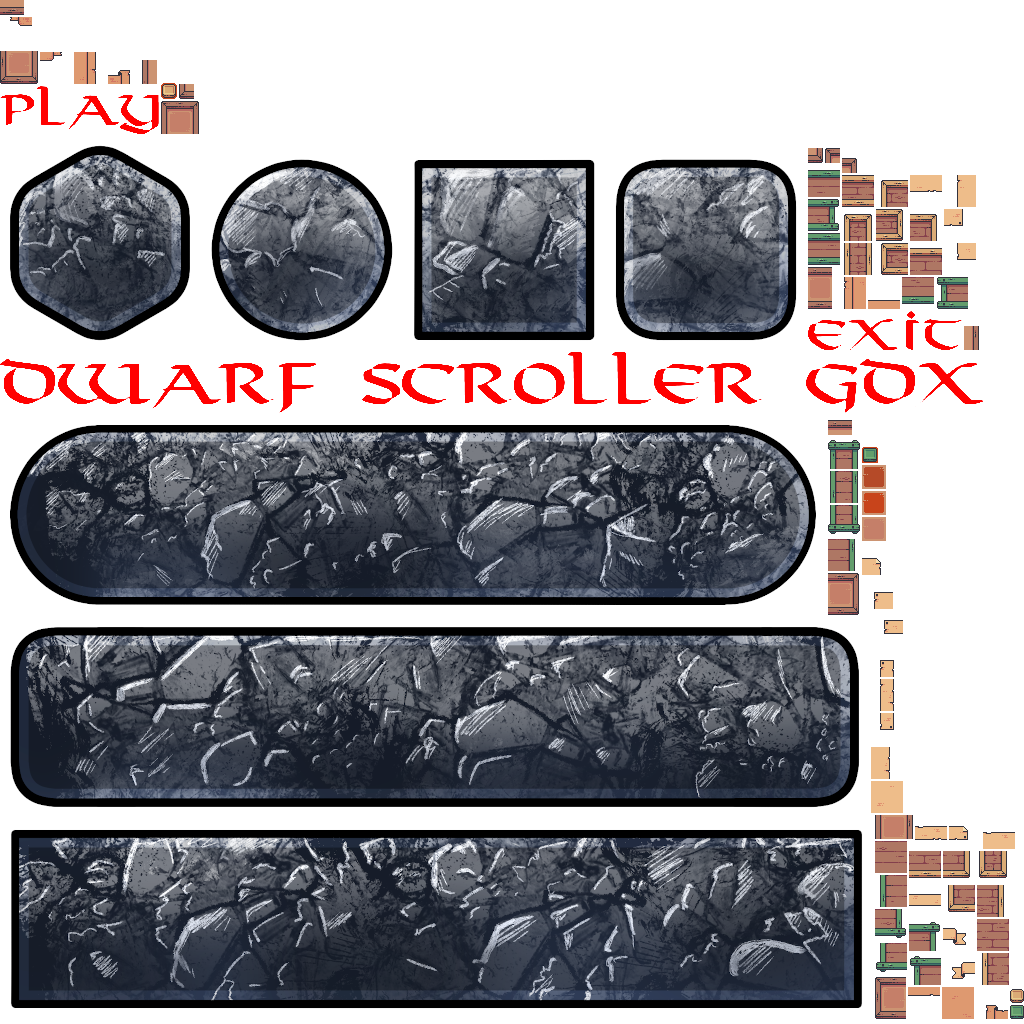
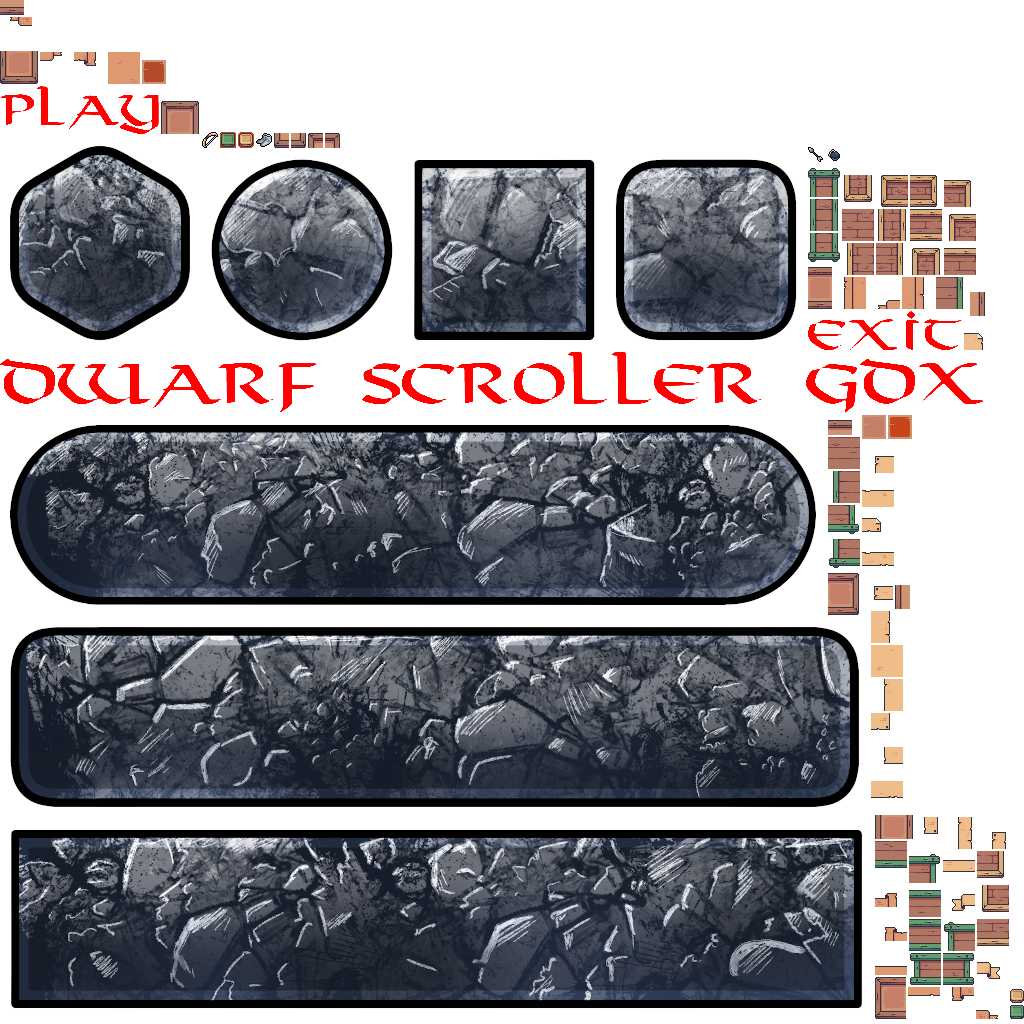
ammo menu inside the pause menu

diff --git a/core/src/net/jfabricationgames/gdx/screens/menu/PauseMenuScreen.java b/core/src/net/jfabricationgames/gdx/screens/menu/PauseMenuScreen.java
@@ -10,11 +10,13 @@ import net.jfabricationgames.gdx.DwarfScrollerGame;
 import net.jfabricationgames.gdx.character.PlayableCharacter;
 import net.jfabricationgames.gdx.character.SpecialAction;
 import net.jfabricationgames.gdx.debug.DebugGridRenderer;
+import net.jfabricationgames.gdx.item.ItemAmmoType;
 import net.jfabricationgames.gdx.screens.game.GameScreen;
+import net.jfabricationgames.gdx.screens.menu.components.AmmoSubMenu;
 import net.jfabricationgames.gdx.screens.menu.components.FocusButton;
 import net.jfabricationgames.gdx.screens.menu.components.FocusButton.FocusButtonBuilder;
 import net.jfabricationgames.gdx.screens.menu.components.GameControlsDialog;
-import net.jfabricationgames.gdx.screens.menu.components.ItemMenu;
+import net.jfabricationgames.gdx.screens.menu.components.ItemSubMenu;
 import net.jfabricationgames.gdx.screens.menu.components.MenuBox;
 
 public class PauseMenuScreen extends InGameMenuScreen<PauseMenuScreen> {
@@ -31,7 +33,8 @@ public class PauseMenuScreen extends InGameMenuScreen<PauseMenuScreen> {
 	private static final String statePrefixButtons = "button_";
 	
 	private static final String pauseMenuStatesConfig = "config/menu/in_game_menu_states.json";
-	private static final Array<String> items = new Array<String>(new String[] {"jump", "bow"});
+	private static final Array<String> items = new Array<>(new String[] {"jump", "bow"});
+	private static final Array<ItemAmmoType> ammoItems = new Array<>(new ItemAmmoType[] {ItemAmmoType.ARROW, ItemAmmoType.BOMB});
 	
 	private PlayableCharacter character;
 	private DebugGridRenderer debugGridRenderer;
@@ -39,9 +42,11 @@ public class PauseMenuScreen extends InGameMenuScreen<PauseMenuScreen> {
 	private GameControlsDialog controlsDialog;
 	
 	private MenuBox background;
-	private MenuBox banner;
-	private ItemMenu itemMenu;
+	private MenuBox headerBanner;
+	private ItemSubMenu itemMenu;
 	private MenuBox itemMenuBanner;
+	private AmmoSubMenu ammoMenu;
+	private MenuBox ammoMenuBanner;
 	private FocusButton buttonBackToGame;
 	private FocusButton buttonControls;
 	private FocusButton buttonRestart;
@@ -69,9 +74,9 @@ public class PauseMenuScreen extends InGameMenuScreen<PauseMenuScreen> {
 	
 	private void createComponents() {
 		background = new MenuBox(12, 8, MenuBox.TextureType.GREEN_BOARD);
-		banner = new MenuBox(6, 2, MenuBox.TextureType.BIG_BANNER);
+		headerBanner = new MenuBox(6, 2, MenuBox.TextureType.BIG_BANNER);
 		
-		itemMenu = new ItemMenu(ITEM_MENU_ITEMS_PER_LINE, ITEM_MENU_LINES, items);
+		itemMenu = new ItemSubMenu(ITEM_MENU_ITEMS_PER_LINE, ITEM_MENU_LINES, items);
 		itemMenuBanner = new MenuBox(4, 2, MenuBox.TextureType.BIG_BANNER);
 		
 		int buttonWidth = 290;
@@ -96,6 +101,9 @@ public class PauseMenuScreen extends InGameMenuScreen<PauseMenuScreen> {
 		buttonControls.scaleBy(FocusButton.DEFAULT_BUTTON_SCALE);
 		buttonRestart.scaleBy(FocusButton.DEFAULT_BUTTON_SCALE);
 		buttonQuit.scaleBy(FocusButton.DEFAULT_BUTTON_SCALE);
+		
+		ammoMenu = new AmmoSubMenu(ammoItems, character);
+		ammoMenuBanner = new MenuBox(4, 2, MenuBox.TextureType.BIG_BANNER_LOW);
 		
 		controlsDialog = new GameControlsDialog();
 	}
@@ -160,6 +168,7 @@ public class PauseMenuScreen extends InGameMenuScreen<PauseMenuScreen> {
 		batch.begin();
 		drawBackground();
 		drawItemMenu();
+		drawAmmoMenu();
 		drawButtons();
 		drawBanners();
 		batch.end();
@@ -180,6 +189,10 @@ public class PauseMenuScreen extends InGameMenuScreen<PauseMenuScreen> {
 		itemMenu.draw(batch, 625, 150, 400, 200);
 	}
 	
+	private void drawAmmoMenu() {
+		ammoMenu.draw(batch, 825, 370, 200, 110);
+	}
+	
 	private void drawButtons() {
 		buttonBackToGame.draw(batch);
 		buttonControls.draw(batch);
@@ -188,8 +201,9 @@ public class PauseMenuScreen extends InGameMenuScreen<PauseMenuScreen> {
 	}
 	
 	private void drawBanners() {
-		banner.draw(batch, 125, 540, 650, 250);
+		headerBanner.draw(batch, 125, 540, 650, 250);
 		itemMenuBanner.draw(batch, 640, 260, 200, 150);
+		ammoMenuBanner.draw(batch, 800, 415, 250, 150);
 	}
 	
 	private void drawControlsDialog() {
@@ -197,6 +211,8 @@ public class PauseMenuScreen extends InGameMenuScreen<PauseMenuScreen> {
 	}
 	
 	private void drawTexts() {
+		ammoMenu.drawAmmoTexts();
+		
 		screenTextWriter.setColor(Color.BLACK);
 		
 		screenTextWriter.setScale(1.5f);
@@ -204,6 +220,8 @@ public class PauseMenuScreen extends InGameMenuScreen<PauseMenuScreen> {
 		
 		screenTextWriter.setScale(0.8f);
 		screenTextWriter.drawText("Items", 690, 345);
+		
+		screenTextWriter.drawText("Ammo", 860, 500);
 		
 		screenTextWriter.setScale(1.15f);
 		int buttonTextX = 160;

diff --git a/core/src/net/jfabricationgames/gdx/screens/menu/components/AmmoSubMenu.java b/core/src/net/jfabricationgames/gdx/screens/menu/components/AmmoSubMenu.java
@@ -1,0 +1,101 @@
+package net.jfabricationgames.gdx.screens.menu.components;
+
+import com.badlogic.gdx.graphics.Color;
+import com.badlogic.gdx.graphics.g2d.SpriteBatch;
+import com.badlogic.gdx.graphics.g2d.TextureRegion;
+import com.badlogic.gdx.utils.Align;
+import com.badlogic.gdx.utils.Array;
+import com.badlogic.gdx.utils.ArrayMap;
+
+import net.jfabricationgames.gdx.character.PlayableCharacter;
+import net.jfabricationgames.gdx.item.ItemAmmoType;
+import net.jfabricationgames.gdx.screens.menu.InGameMenuScreen;
+import net.jfabricationgames.gdx.text.ScreenTextWriter;
+import net.jfabricationgames.gdx.texture.TextureLoader;
+
+public class AmmoSubMenu extends SingleLineMenuBox {
+	
+	private static final String itemTextureConfigFile = "config/menu/items/items.json";
+	
+	private class AmmoText {
+		
+		public String text;
+		public float x;
+		public float y;
+		public float width;
+		
+		public AmmoText(String text, float x, float y, float width) {
+			this.text = text;
+			this.x = x;
+			this.y = y;
+			this.width = width;
+		}
+	}
+	
+	private Array<ItemAmmoType> items;
+	private ArrayMap<ItemAmmoType, TextureRegion> itemTextures;
+	private PlayableCharacter character;
+	private ArrayMap<ItemAmmoType, AmmoText> ammoTextPositions;
+	
+	private TextureLoader itemTextureLoader;
+	private ScreenTextWriter screenTextWriter;
+	
+	public AmmoSubMenu(Array<ItemAmmoType> items, PlayableCharacter character) {
+		super(items.size, SingleLineTextureType.INVENTORY);
+		this.items = items;
+		this.character = character;
+		
+		ammoTextPositions = new ArrayMap<>();
+		
+		initializeScreenTextWriter();
+		
+		itemTextureLoader = new TextureLoader(itemTextureConfigFile);
+		loadItemTextures();
+	}
+	
+	private void initializeScreenTextWriter() {
+		screenTextWriter = new ScreenTextWriter();
+		screenTextWriter.setFont(InGameMenuScreen.FONT_NAME);
+	}
+	
+	private void loadItemTextures() {
+		itemTextures = new ArrayMap<>(items.size);
+		for (ItemAmmoType item : items) {
+			itemTextures.put(item, itemTextureLoader.loadTexture(item.name().toLowerCase()));
+		}
+	}
+	
+	@Override
+	protected void drawOnMenuField(SpriteBatch batch, int x, int y, float posX, float posY, float scaledWidth, float scaledHeight) {
+		int index = x;
+		float borderFactor = 0.3f;
+		float sizeFactor = (1f - (2f * borderFactor));
+		float outerBorderOffset = 0;
+		if (x == 0) {
+			outerBorderOffset = 0.12f * scaledWidth;
+		}
+		else if (x == items.size - 1) {
+			outerBorderOffset = -0.12f * scaledWidth;
+		}
+		
+		if (index >= 0 && items.size > index) {
+			ItemAmmoType ammoType = items.get(index);
+			TextureRegion itemTexture = itemTextures.get(ammoType);
+			batch.draw(itemTexture, posX + scaledWidth * borderFactor + outerBorderOffset, posY + scaledHeight * borderFactor,
+					scaledWidth * sizeFactor, scaledHeight * sizeFactor);
+			
+			String ammo = Integer.toString(character.getAmmo(ammoType));
+			float textPosX = posX + scaledWidth * 0.4f + outerBorderOffset;
+			float textPosY = posY + scaledHeight * 0.38f;
+			ammoTextPositions.put(ammoType, new AmmoText(ammo, textPosX, textPosY, scaledWidth * sizeFactor));
+		}
+	}
+	
+	public void drawAmmoTexts() {
+		screenTextWriter.setColor(Color.BLACK);
+		screenTextWriter.setScale(0.8f);
+		for (AmmoText ammoText : ammoTextPositions.values()) {
+			screenTextWriter.drawText(ammoText.text, ammoText.x, ammoText.y, ammoText.width, Align.right, false);
+		}
+	}
+}

diff --git a/core/src/net/jfabricationgames/gdx/screens/menu/components/ItemSubMenu.java b/core/src/net/jfabricationgames/gdx/screens/menu/components/ItemSubMenu.java
@@ -6,7 +6,7 @@ import com.badlogic.gdx.utils.Array;
 
 import net.jfabricationgames.gdx.texture.TextureLoader;
 
-public class ItemMenu extends MenuBox {
+public class ItemSubMenu extends MenuBox {
 	
 	private static final String selectionTextureConfigName = "selected";
 	private static final String hoverTextureConfigName = "hover";
@@ -26,7 +26,7 @@ public class ItemMenu extends MenuBox {
 	private Array<String> items;
 	private Array<TextureRegion> itemTextures;
 	
-	public ItemMenu(int numItemsPerLine, int numItemRows, Array<String> items) {
+	public ItemSubMenu(int numItemsPerLine, int numItemRows, Array<String> items) {
 		super(numItemsPerLine + 2, numItemRows + 2, TextureType.INVENTORY);
 		this.numItemsPerLine = numItemsPerLine;
 		this.numItemLines = numItemRows;

diff --git a/core/src/net/jfabricationgames/gdx/character/PlayableCharacter.java b/core/src/net/jfabricationgames/gdx/character/PlayableCharacter.java
@@ -3,6 +3,8 @@ package net.jfabricationgames.gdx.character;
 import com.badlogic.gdx.graphics.g2d.SpriteBatch;
 import com.badlogic.gdx.math.Vector2;
 
+import net.jfabricationgames.gdx.item.ItemAmmoType;
+
 public interface PlayableCharacter {
 	
 	public void render(float delta, SpriteBatch batch);
@@ -61,4 +63,6 @@ public interface PlayableCharacter {
 	public void setActiveSpecialAction(SpecialAction specialAction);
 	
 	public boolean isGameOver();
+	
+	public int getAmmo(ItemAmmoType ammoType);
 }

diff --git a/core/src/net/jfabricationgames/gdx/character/Dwarf.java b/core/src/net/jfabricationgames/gdx/character/Dwarf.java
@@ -214,11 +214,15 @@ public class Dwarf implements PlayableCharacter, StatsCharacter, Disposable, Con
 	}
 	
 	private boolean hasAmmo(ItemAmmoType ammoType) {
+		return getAmmo(ammoType) > 0;
+	}
+	
+	public int getAmmo(ItemAmmoType ammoType) {
 		switch (ammoType) {
 			case ARROW:
-				return ammoArrow > 0;
+				return ammoArrow;
 			case BOMB:
-				return ammoBomb > 0;
+				return ammoBomb;
 			default:
 				throw new IllegalStateException("Unexpected ItemAmmoType: " + ammoType);
 		}

diff --git a/core/src/net/jfabricationgames/gdx/screens/menu/components/MenuBox.java b/core/src/net/jfabricationgames/gdx/screens/menu/components/MenuBox.java
@@ -14,6 +14,7 @@ public class MenuBox {
 		YELLOW_BOARD("config/menu/backgrounds/yellow_board_textures.json"), //
 		INVENTORY("config/menu/backgrounds/inventory_textures.json"), //
 		BIG_BANNER("config/menu/backgrounds/big_banner_textures.json"), //
+		BIG_BANNER_LOW("config/menu/backgrounds/big_banner_low_textures.json"), //
 		YELLOW_PAPER("config/menu/backgrounds/yellow_paper_textures.json"); //
 		
 		public final String configFile;
